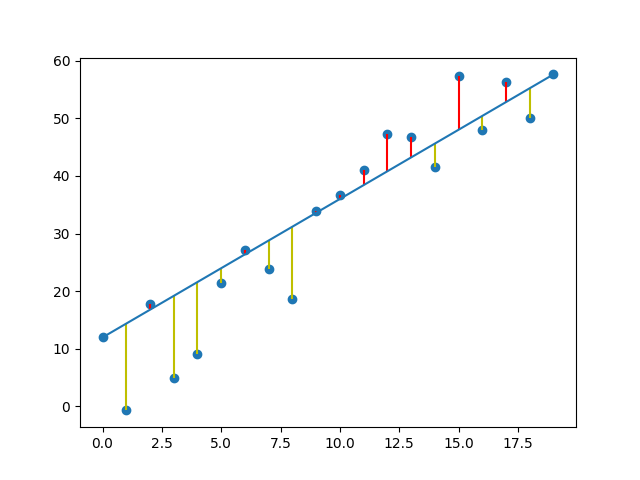
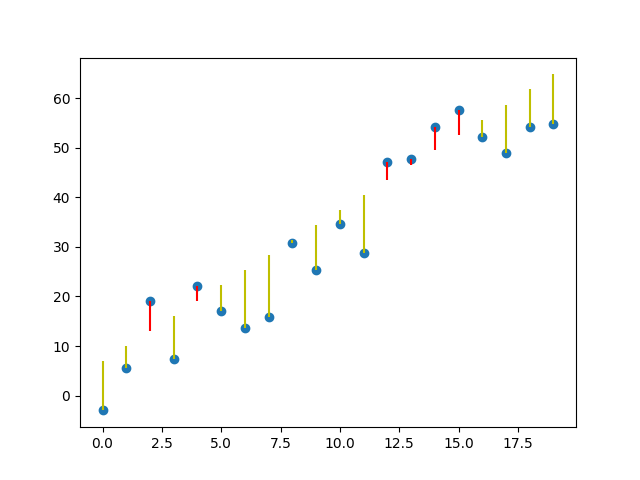
added mse function

diff --git a/linear.py b/linear.py
@@ -2,12 +2,13 @@ import matplotlib.pyplot as plt
 import numpy as np
 import random
 from scipy import interpolate 
+from sklearn.metrics import mean_squared_error
 var = 20
 
 #x = [random.randrange(1,var,2) for i in range(var)]
 #y = [2 + 2*x[i] + random.randrange(1,var,2) for i in range(var)]
 
-
+#create rnd linear dataset
 x = np.arange(var)
 delta = np.random.uniform(-10,10,size=(var,))
 y = 4 + x*3 + delta
@@ -20,7 +21,6 @@ for i,j in enumerate(x):
 #problem: because the numbers are generated randomly, there a multiple x values with different y values.. how should i fix this shit
 
 plt.scatter(x,y)
-x = list(set(x))
 
 ynew = [dic[x[0]],dic[x[len(x)-1]]]
 xnew = [x[0],x[len(x)-1]]
@@ -33,8 +33,9 @@ xnew = [x[0],x[len(x)-1]]
 steigung = (ynew[0]-ynew[1])/(xnew[0]-xnew[1])
 
 f = []
+add = 8
 for i,j in enumerate(x):
-    f.append(dic[x[0]] + steigung * x[i])
+    f.append(add + dic[x[0]] + steigung * x[i])
 
 for j in y:
     if len(y) == len(x):
@@ -50,22 +51,21 @@ for i,j in enumerate(y):
 
 #write this a bit prettier bruv, very ugly solution so far  
 
-def distance(x,y,y_l):
+
+def distance(y,y_l):
     sum_len = []  
-    for i,j in enumerate(x):
+    for i,j in enumerate(y):
         sum_len.append((y[i]-y_l[i])**2)
     return sum_len
 
 def mrse(distance,x):
-    return (1/len(x)) * sum(distance) 
+    return ((1/len(x)) * sum(distance))
 
-print(mrse(distance(x,y,f),x))
+plt.title("Linear Regression for Linear Dataset")
+plt.plot(x,f,"-")
+plt.show()
 
-#plt.plot(x,f,"-")
 #plt.savefig("assets/test_linear_mrse")
-#plt.show()
-
-#plt.savefig("figure1")
 
 
 
